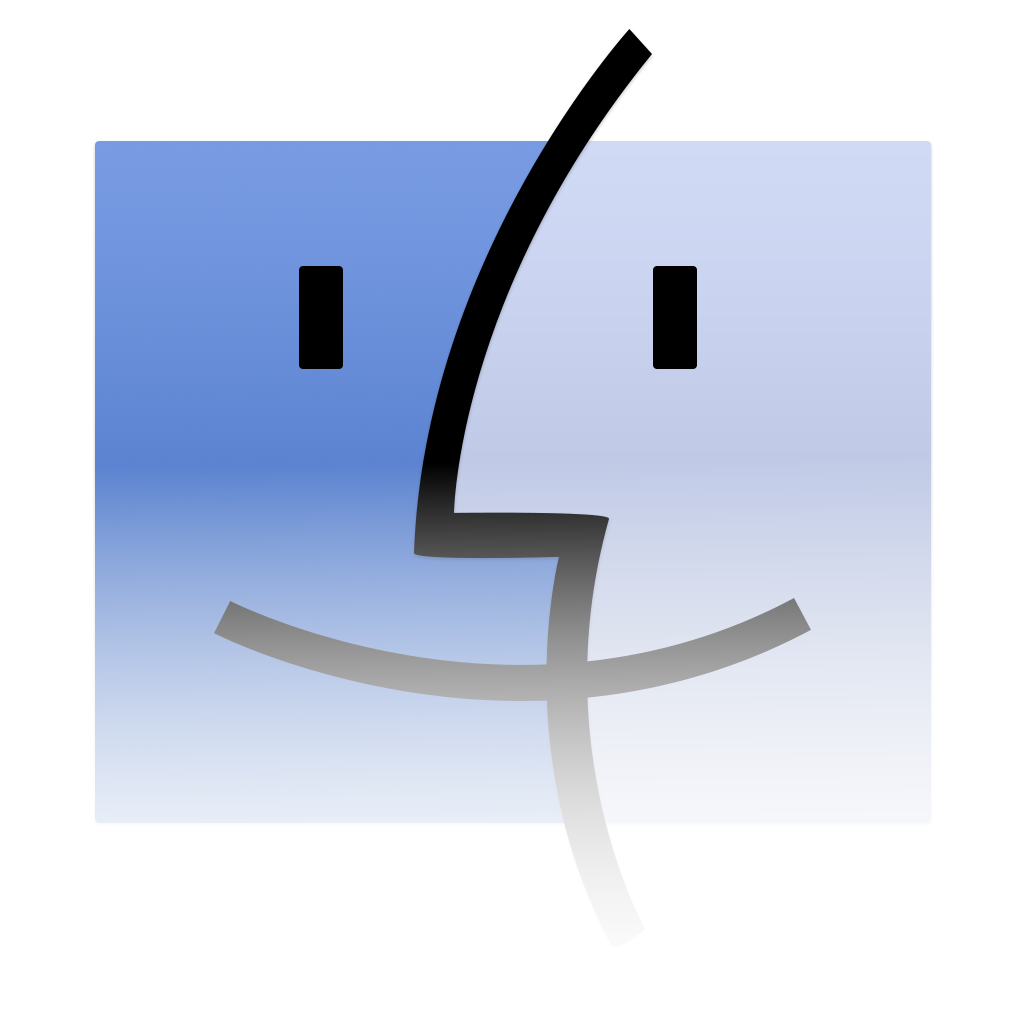
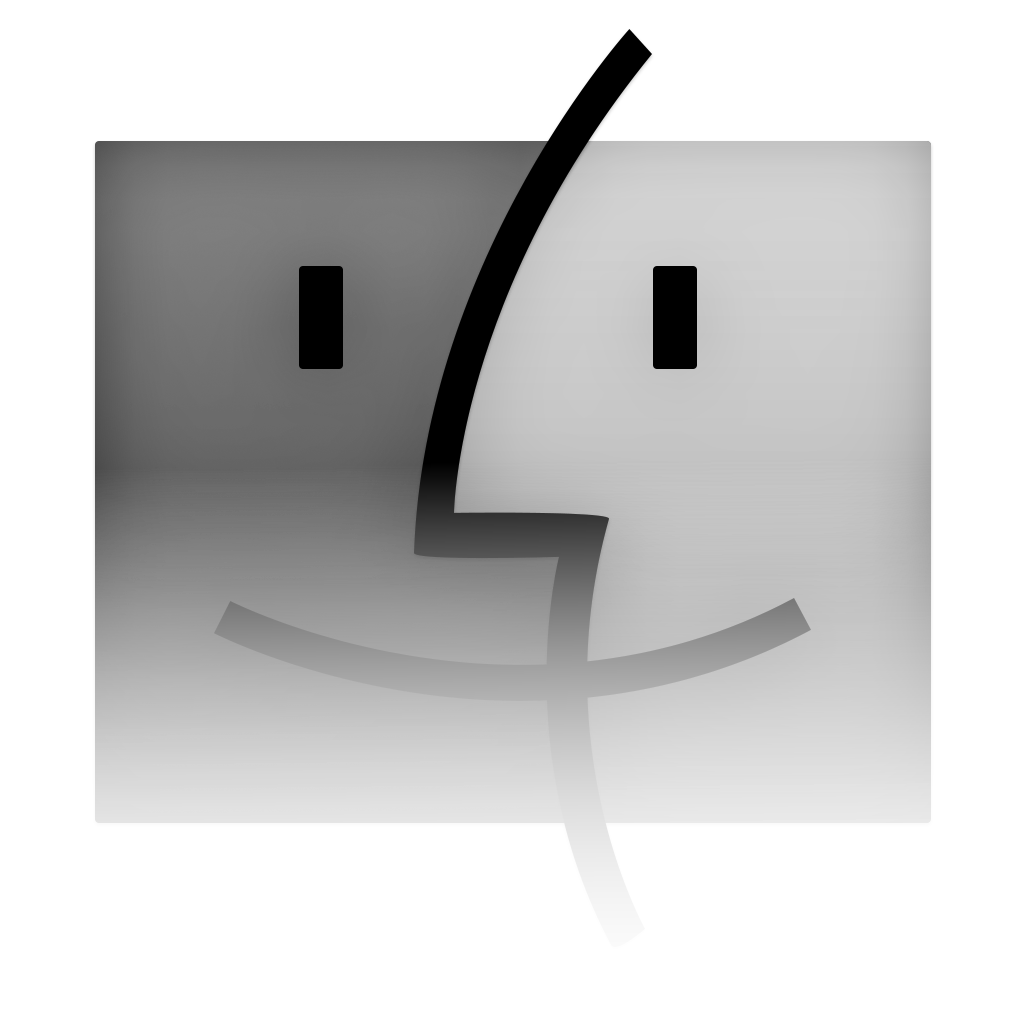
alectramell

diff --git a/macstore.html b/macstore.html
@@ -12,7 +12,7 @@ Tramell Software Development (r)
 
 <img id="winStore" src="img/windowsMAIN.png" onclick="winStoreOpen();">
 <img id="macStore" src="img/macos.png" onclick="macStoreOpen();">
-<img id="homeButton" src="img/home.png" onclick="goHome();">
+<img id="homeButton" src="img/homeMAIN.png" onclick="goHome();">
 
 <center>
 <font id="appsForText" align="abs_middle">projects for</font>

diff --git a/winstore.html b/winstore.html
@@ -12,7 +12,7 @@ Tramell Software Development (r)
 
 <img id="winStore" src="img/windows.png" onclick="winStoreOpen();">
 <img id="macStore" src="img/macosMAIN.png" onclick="macStoreOpen();">
-<img id="homeButton" src="img/home.png" onclick="goHome();">
+<img id="homeButton" src="img/homeMAIN.png" onclick="goHome();">
 
 <center>
 <font id="appsForText" align="abs_middle">projects for</font>
